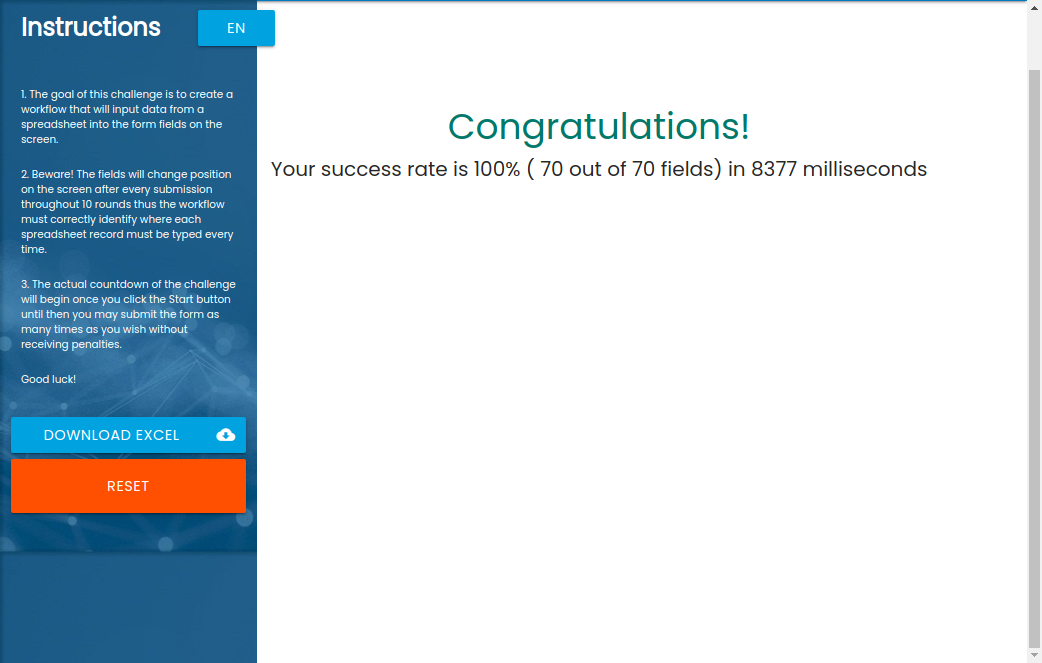
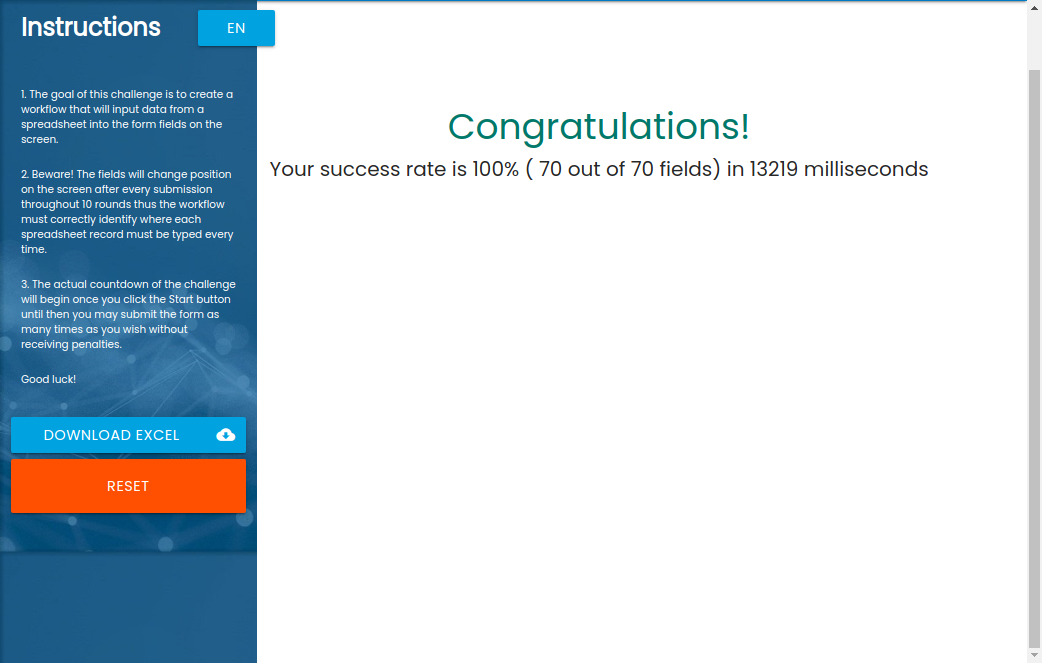
Finalizado! ok

Changed region(s): [[0.2457, 0.2413, 0.8906, 0.2715]]

diff --git a/RPA_FomularioWeb_FINALIZADO.py b/RPA_FomularioWeb_FINALIZADO.py
@@ -1,0 +1,65 @@
+import pandas as pd
+import timeit
+
+from RPA.Browser.Selenium import Selenium
+from RPA.HTTP import HTTP
+
+
+class RPA_FormWeb():
+
+    def __init__(self):
+        self.browser = Selenium()
+        self.page = HTTP()
+        self.data = pd.DataFrame()
+
+    def open_site(self, site: str):
+        self.browser.open_available_browser(site)
+
+    def download_file(self, web_download: str):
+        self.page.download(web_download,
+                           target_file='../RPA_Automatiza-do-preenchimento-de-formulario-Web', overwrite=True)
+
+    def click_button(self, name_button: str):
+        self.browser.click_button(name_button)
+
+    def read_data(self, ):
+        self.data = pd.read_excel(
+            '/home/guilherme/PycharmProjects/RPA_Automatiza-do-preenchimento-de-formulario-Web/challenge.xlsx')
+
+    def fill_form(self):
+        for index, tabela in self.data.iterrows():
+            self.browser.input_text('css:input[ng-reflect-name="labelFirstName"]', tabela['First Name'])
+            self.browser.input_text('css:input[ng-reflect-name="labelLastName"]', tabela['Last Name '])
+            self.browser.input_text('css:input[ng-reflect-name="labelCompanyName"]', tabela['Company Name'])
+            self.browser.input_text('css:input[ng-reflect-name="labelRole"]', tabela['Role in Company'])
+            self.browser.input_text('css:input[ng-reflect-name="labelAddress"]', tabela['Address'])
+            self.browser.input_text('css:input[ng-reflect-name="labelEmail"]', tabela['Email'])
+            self.browser.input_text('css:input[ng-reflect-name="labelPhone"]', str(tabela['Phone Number']))
+
+            self.click_button('Submit')
+
+    def take_photo(self):
+        self.browser.capture_page_screenshot('rpachallenge.png')
+
+    def time_on(self):
+        self.start = timeit.timeit()
+        return self.start
+
+    def time_off(self):
+        self.end = timeit.timeit()
+        return print(f'Tempo decorrido: {round(self.end - self.start, 6)}')
+
+
+def exec_RPA():
+    projeto = RPA_FormWeb()
+    projeto.time_on()
+    projeto.open_site('http://rpachallenge.com/')
+    projeto.download_file('http://rpachallenge.com/assets/downloadFiles/challenge.xlsx')
+    projeto.click_button('Start')
+    projeto.read_data()
+    projeto.fill_form()
+    projeto.take_photo()
+    projeto.time_off()
+
+
+exec_RPA()

diff --git a/Modelo_RPA_FomularioWeb.py b/Modelo_RPA_FomularioWeb.py
@@ -8,6 +8,7 @@ from RPA.Browser.Selenium import Selenium
 from RPA.HTTP import HTTP
 
 
+
 # Open chrome on site
 browser = Selenium()
 browser.open_available_browser('http://rpachallenge.com/')  #http://rpachallenge.com/
